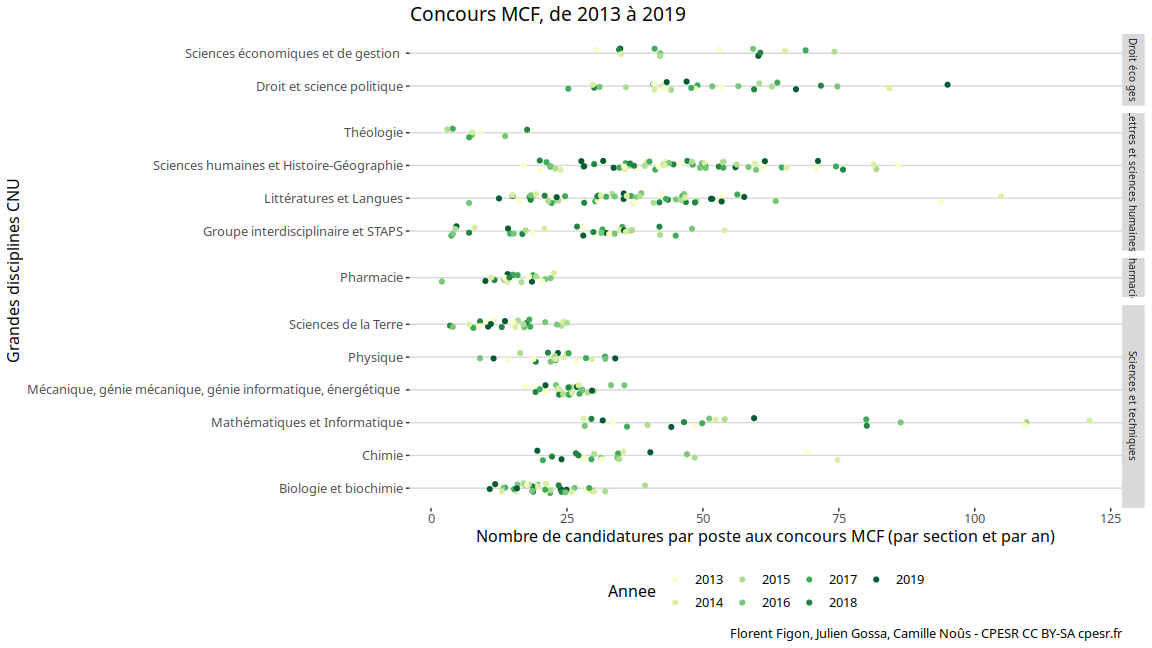
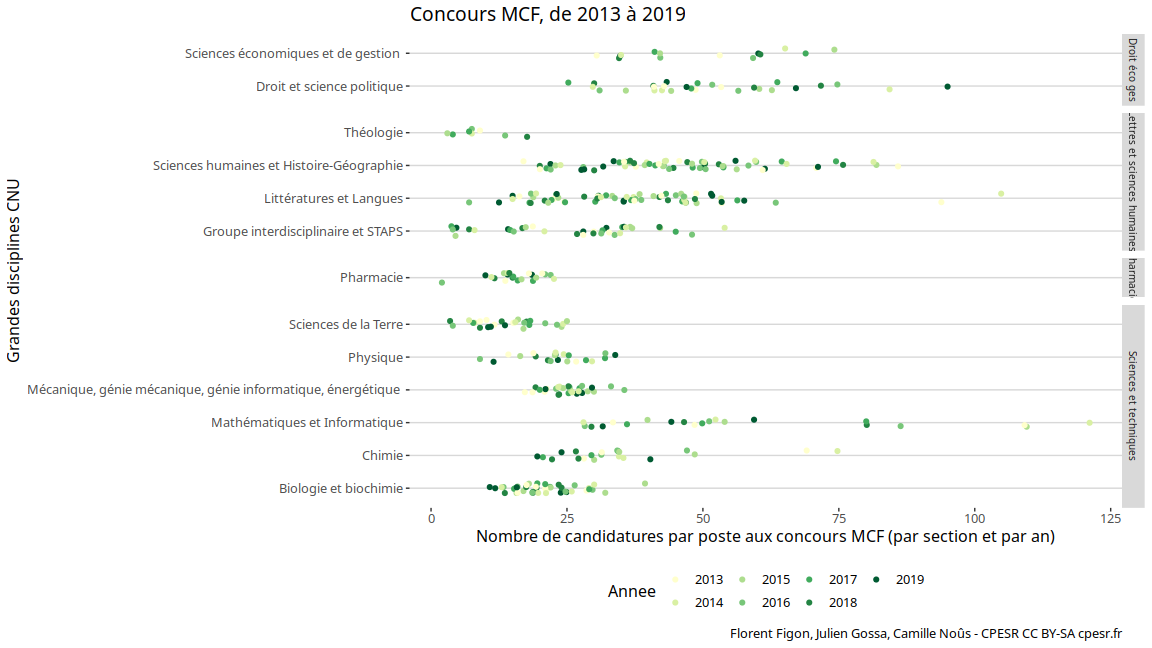
Analyses Candidature/Candidat = f(postes publiés) par grande discipline vs section CNU avec régressions linéaires

diff --git a/ConcoursMCF/ConcoursMCF.md b/ConcoursMCF/ConcoursMCF.md
@@ -113,9 +113,29 @@ plein de candidatures dans certaines disciplines :
 
 ![](ConcoursMCF_files/figure-gfm/candidats.candidatures.postes-1.png)<!-- -->
 
+    ## Warning: Removed 3 rows containing missing values (geom_label_repel).
+
+![](ConcoursMCF_files/figure-gfm/candidats.candidatures.postes.2-1.png)<!-- -->
+
     ## Warning: Using alpha for a discrete variable is not advised.
 
 ![](ConcoursMCF_files/figure-gfm/candidats.candidatures.postes.DEG-1.png)<!-- -->
+
+    ## `geom_smooth()` using formula 'y ~ x'
+
+![](ConcoursMCF_files/figure-gfm/candidats.candidatures.postes.DEG.2-1.png)<!-- -->
+
+    ## `geom_smooth()` using formula 'y ~ x'
+
+![](ConcoursMCF_files/figure-gfm/candidats.candidatures.postes.LSHS-1.png)<!-- -->
+
+    ## `geom_smooth()` using formula 'y ~ x'
+
+![](ConcoursMCF_files/figure-gfm/candidats.candidatures.postes.Pharma-1.png)<!-- -->
+
+    ## `geom_smooth()` using formula 'y ~ x'
+
+![](ConcoursMCF_files/figure-gfm/candidats.candidatures.postes.ST-1.png)<!-- -->
 
 ![](ConcoursMCF_files/figure-gfm/candidatures.par.poste-1.png)<!-- -->
 
